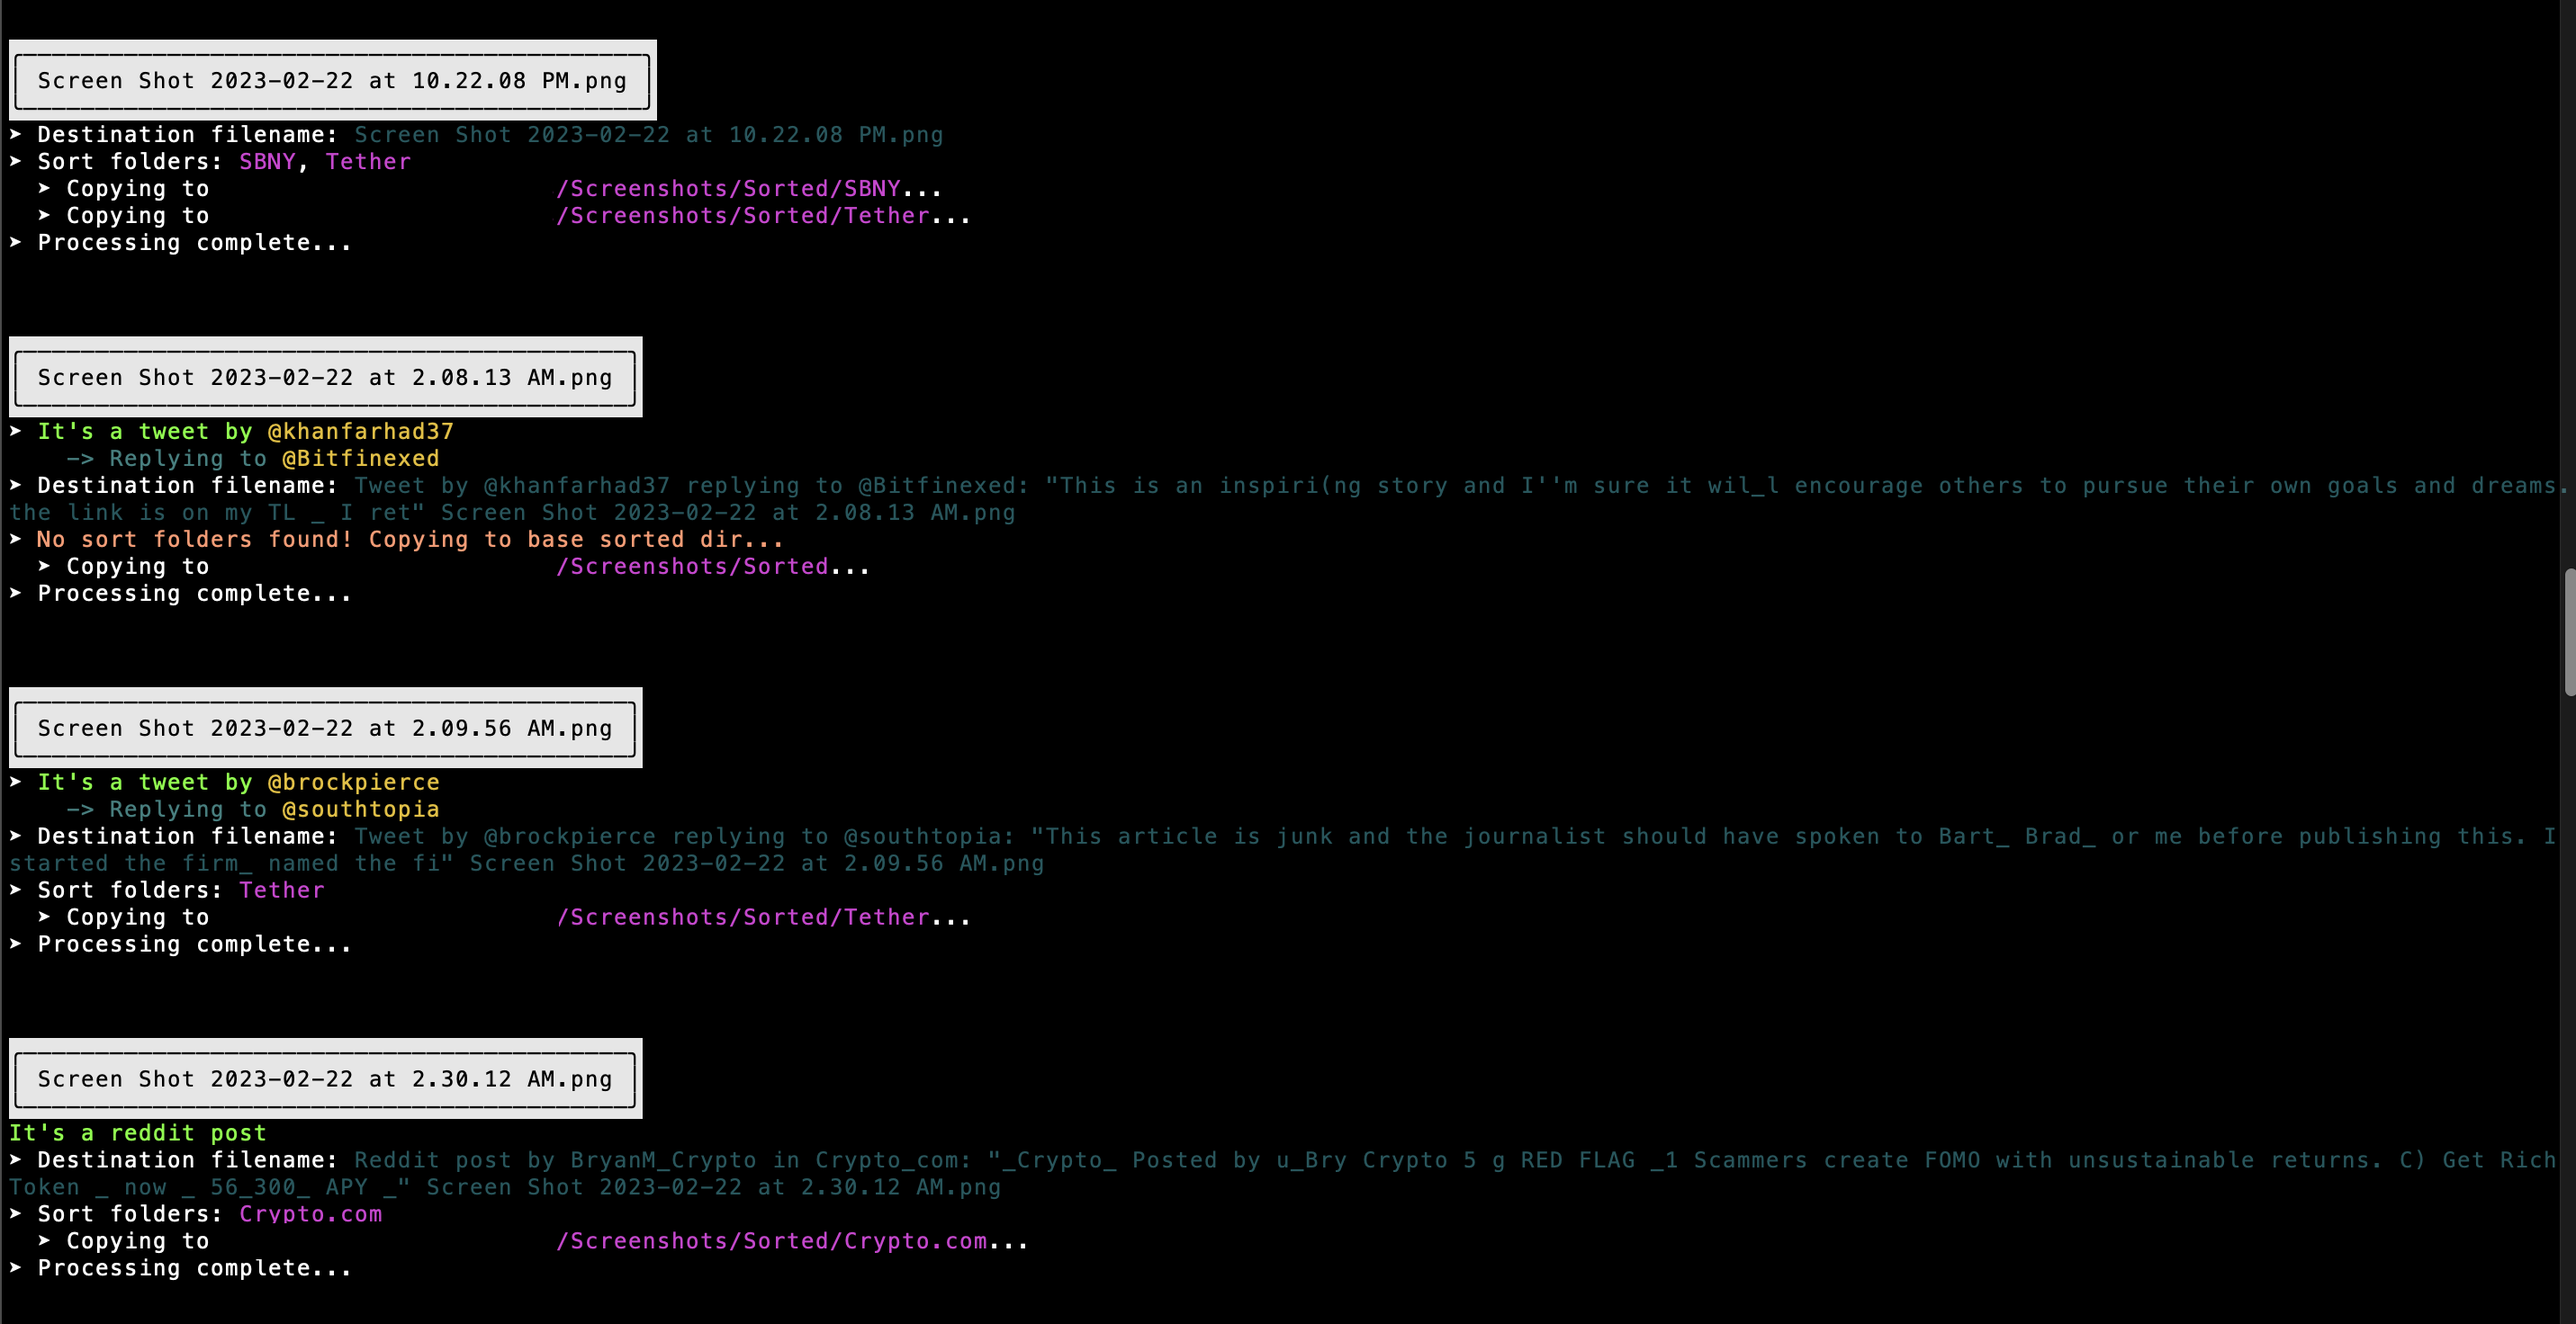
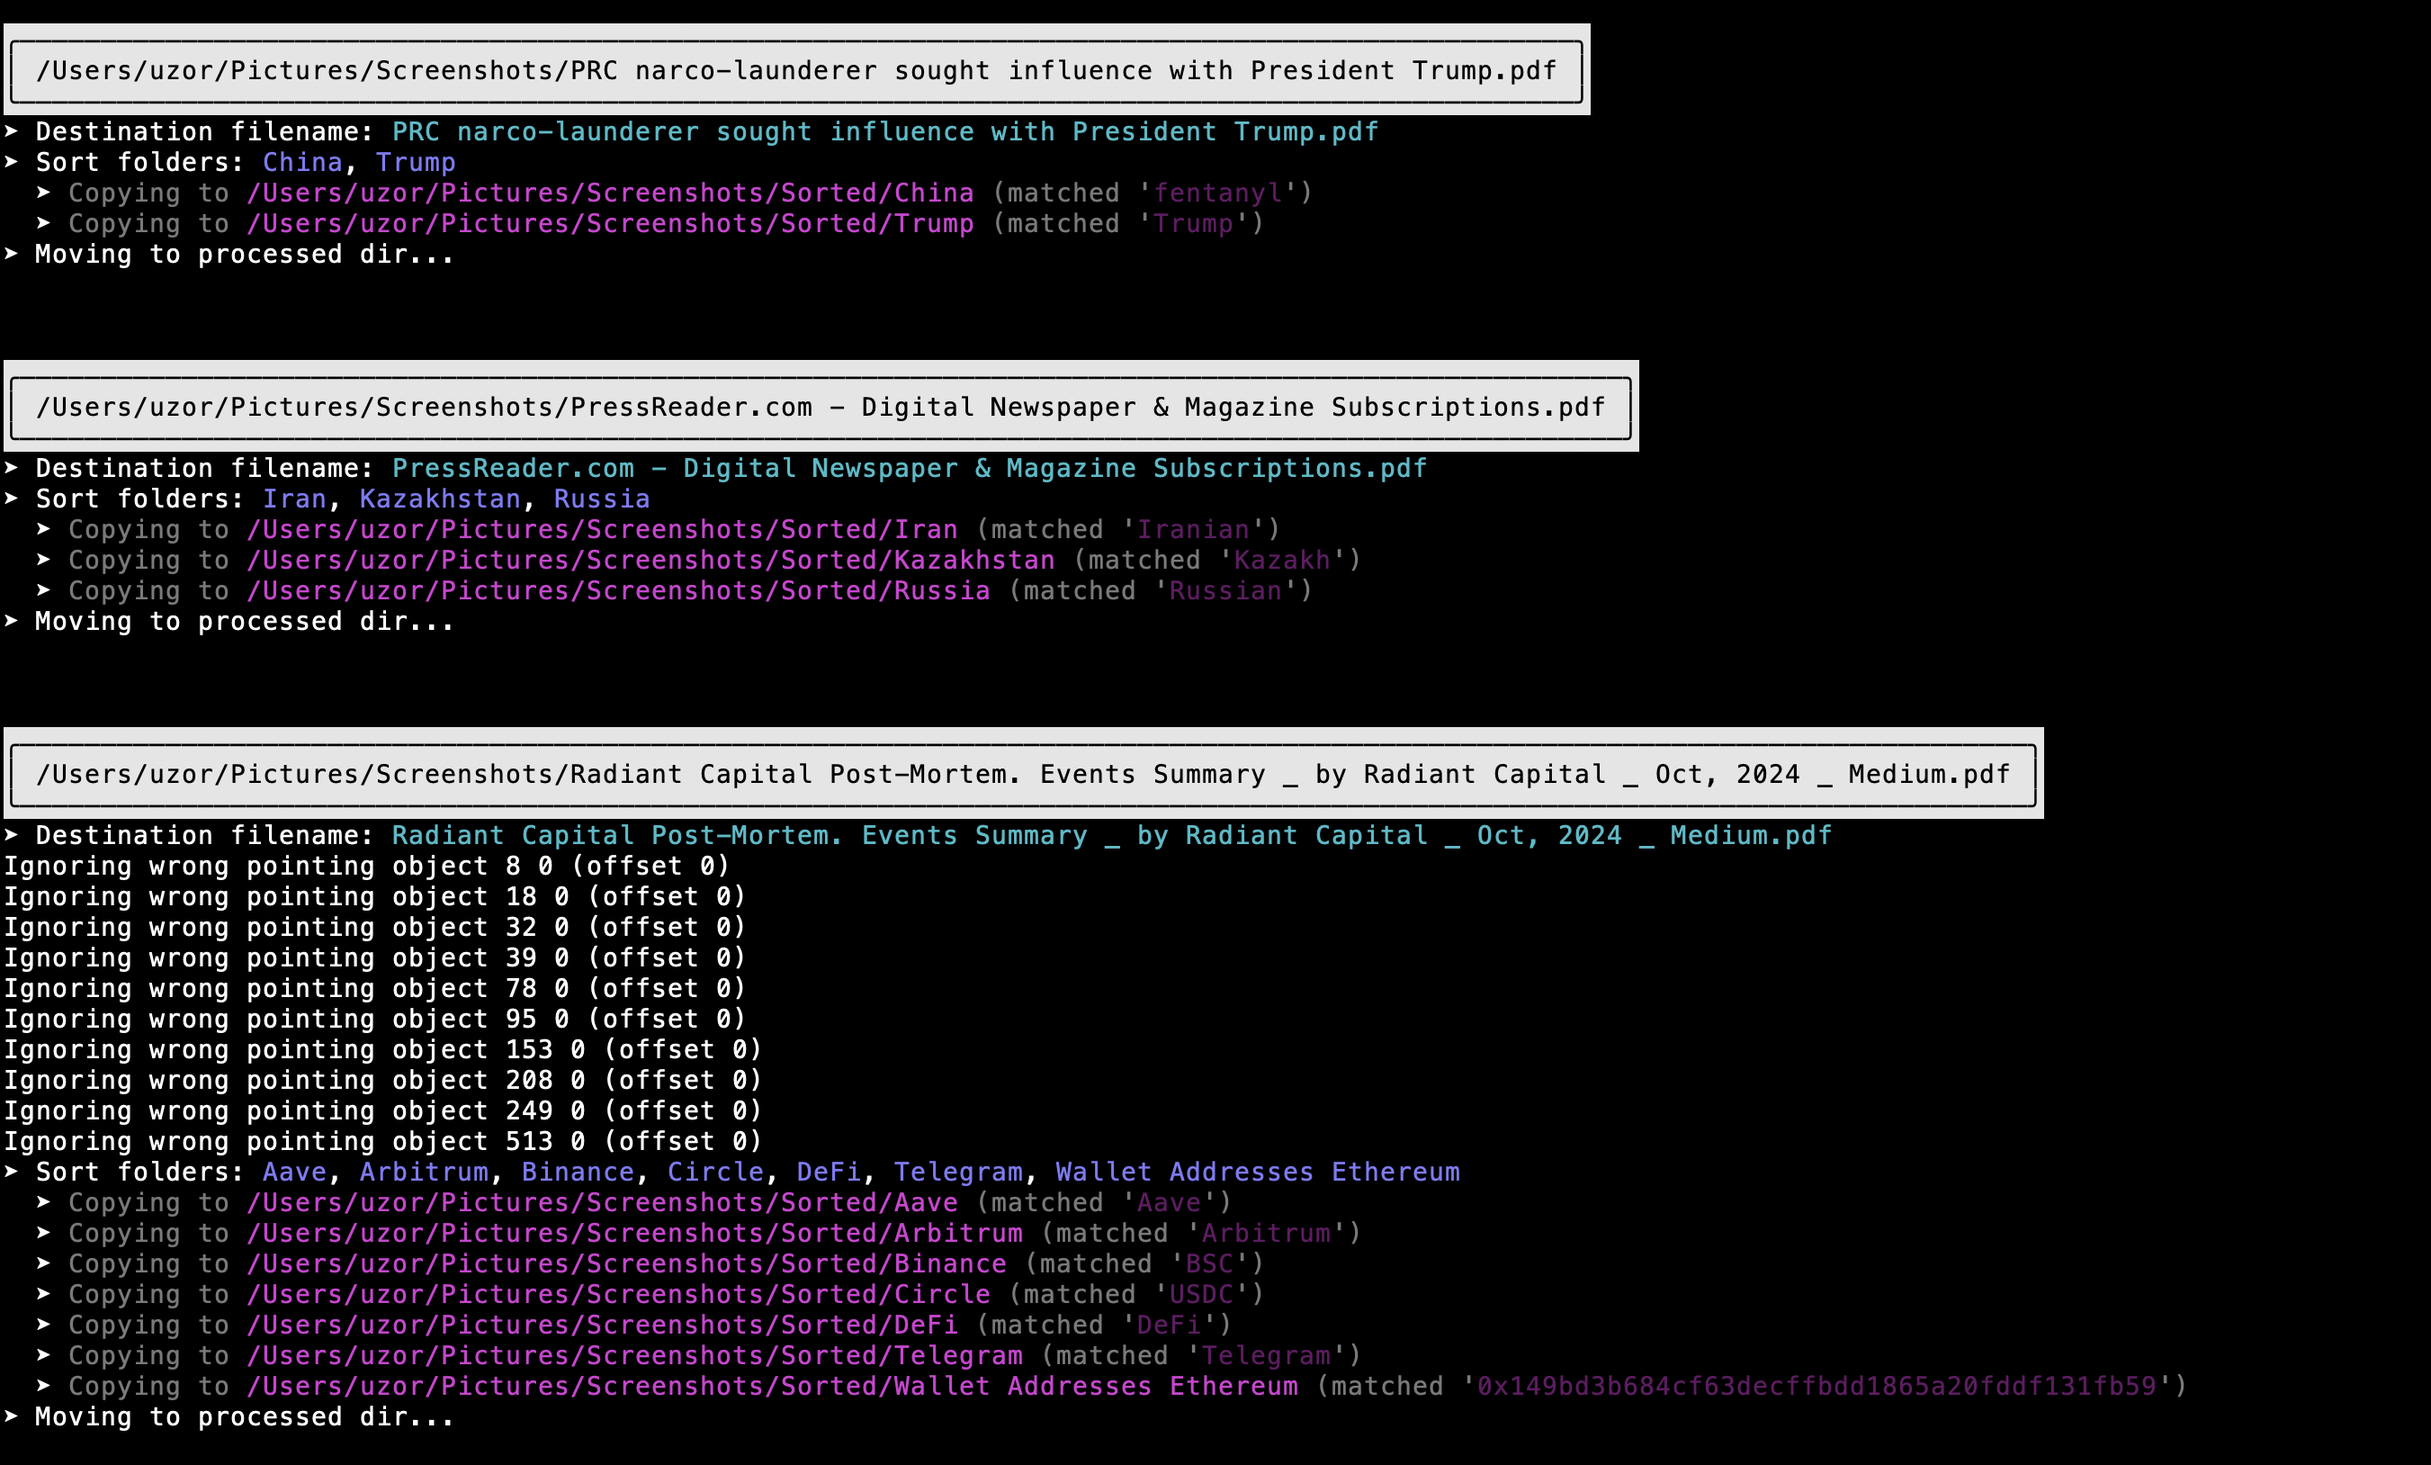
Options to hide directories or anonymize the username in output logs (#7)
* --hide-dirs option

* --anonymize-user-dir option

* Update usage image in README

* update help screenshot

diff --git a/clown_sort/files/sortable_file.py b/clown_sort/files/sortable_file.py
@@ -20,10 +20,11 @@ from clown_sort.config import Config
 from clown_sort.filename_extractor import FilenameExtractor
 from clown_sort.lib.rule_match import RuleMatch
 from clown_sort.sort_selector import process_file_with_popup
-from clown_sort.util.filesystem_helper import copy_file_creation_time
+from clown_sort.util.filesystem_helper import copy_file_creation_time, loggable_filename
 from clown_sort.util.logging import log
-from clown_sort.util.rich_helper import (bullet_text, comma_join, console, copying_file_log_message,
-     indented_bullet, mild_warning, moving_file_log_message, print_dim_bullet, print_headline, stderr_console)
+from clown_sort.util.rich_helper import (bullet_text, comma_join, console,
+     copying_file_log_message, indented_bullet, mild_warning, moving_file_log_message,
+     print_dim_bullet, stderr_console)
 
 MAX_EXTRACTION_LENGTH = 4096
 NOT_MOVING_FILE = "Not moving file to processed dir because it's"
@@ -197,7 +198,9 @@ class SortableFile:
         return Panel(self._extracted_str(MAX_EXTRACTION_LENGTH), expand=True, style='dim')
 
     def _filename_panel(self) -> Panel:
-        return Panel(str(self.file_path), expand=False, style='bright_white reverse')
+        """Panelized version of the filename for display."""
+        filename = loggable_filename(self.file_path, Config)
+        return Panel(filename, expand=False, style='bright_white reverse')
 
     def _log_copy_file(self, destination_path: Path, match: Optional[re.Match] = None) -> None:
         """Log info about a file copy."""
@@ -209,15 +212,17 @@ class SortableFile:
 
         if destination_path.parent == Config.destination_dir:
             console.print(indented_bullet(log_msg.append('root sorted dir...')))
-        else:
-            log_msg.append(str(destination_path.parent), style='sort_destination')
+            return
 
-            if match is not None:
-                log_msg.append(f" (matched '", style='dim')
-                log_msg.append(match.group(0).strip(), style='magenta dim')
-                log_msg.append("')", style='dim')
+        dirname = loggable_filename(destination_path.parent, Config)
+        log_msg.append(str(dirname), style='sort_destination')
 
-            console.print(indented_bullet(log_msg))
+        if match is not None:
+            log_msg.append(f" (matched '", style='dim')
+            log_msg.append(match.group(0).strip(), style='magenta dim')
+            log_msg.append("')", style='dim')
+
+        console.print(indented_bullet(log_msg))
 
     def _move_to_processed_dir(self) -> None:
         """Relocate the original file to the [SCREENSHOTS_DIR]/Processed/ folder."""

diff --git a/clown_sort/util/filesystem_helper.py b/clown_sort/util/filesystem_helper.py
@@ -7,6 +7,7 @@ import re
 import stat
 import time
 from datetime import datetime
+from getpass import getuser
 from os import path
 from pathlib import Path
 from typing import List, Optional, Union
@@ -25,6 +26,9 @@ MOVIE_FILE_EXTENSIONS = ['.mov', '.flv', '.avi']
 IMAGE_FILE_EXTENSIONS = [f".{ext}" for ext in 'tiff jpg jpeg png heic'.split()]
 SORTABLE_FILE_EXTENSIONS = IMAGE_FILE_EXTENSIONS + [PDF_EXTENSION, '.mov']
 MAC_SCREENSHOT_TIMESTAMP_FORMAT = '%Y-%m-%d at %I.%M.%S %p'
+
+ANONYMIZED_USERNAME = 'uzor'
+CURRENT_USERNAME = getuser()
 
 
 def files_in_dir(dir: Union[os.PathLike, str], with_extname: Optional[str] = None) -> List[str]:
@@ -125,6 +129,21 @@ def extract_timestamp_from_filename(filename: str) -> datetime:
         raise ValueError(f"'{filename}' is not a timestamped screenshot file")
 
     return datetime.strptime(match.group(1), MAC_SCREENSHOT_TIMESTAMP_FORMAT)
+
+
+def loggable_filename(file_path: Path, config: 'Config') -> str:
+    """Return a loggable version of the filename."""
+    if config.hide_dirs:
+        return Path(file_path).name
+
+    filename = str(file_path)
+
+    if config.anonymize_user_dir:
+        username_str = f"{path.sep}{CURRENT_USERNAME}{path.sep}"
+        anonuser_str = f"{path.sep}{ANONYMIZED_USERNAME}{path.sep}"
+        return filename.replace(username_str, anonuser_str)
+    else:
+        return filename
 
 
 def _non_hidden_files_in_dir(dir: Union[os.PathLike, str]) -> List[str]:

diff --git a/clown_sort/config.py b/clown_sort/config.py
@@ -31,6 +31,7 @@ class Config:
     leave_in_place: bool = False
     screenshots_only: bool = True
     delete_originals: bool = False
+    hide_dirs: bool = False
     rescan_sorted: bool = False
     yes_overwrite: bool = False
     print_as_parsed: bool = False
@@ -50,9 +51,11 @@ class Config:
             cls.enable_debug_mode()
 
         Config.filename_regex = re.compile(args.filename_regex)
+        Config.anonymize_user_dir = True if args.anonymize_user_dir else False
+        Config.hide_dirs = True if args.hide_dirs else False
+        Config.delete_originals = True if args.delete_originals else False
         Config.leave_in_place = True if args.leave_in_place else False
         Config.only_if_match = True if args.only_if_match else False
-        Config.delete_originals = True if args.delete_originals else False
         Config.rescan_sorted = True if args.rescan_sorted else False
         Config.yes_overwrite = True if args.yes_overwrite else False
 

diff --git a/clown_sort/util/argument_parser.py b/clown_sort/util/argument_parser.py
@@ -67,6 +67,12 @@ parser.add_argument('-mf', '--manual-fallback', action='store_true',
 parser.add_argument('-y', '--yes-overwrite', action='store_true',
                     help='skip confirmation prompt and always overwrite if a file with the same name already exists')
 
+parser.add_argument('--hide-dirs', action='store_true',
+                    help='hide directories in log output (only show basenames)')
+
+parser.add_argument('--anonymize-user-dir', action='store_true',
+                    help='anonymize the user directory in log output')
+
 parser.add_argument('--rescan-sorted', action='store_true',
                     help="rescan already sorted files (useful if you updated your sorting rules)")
 

diff --git a/CHANGELOG.md b/CHANGELOG.md
@@ -1,4 +1,6 @@
 # NEXT RELEASE
+* New `--hide-dirs` option
+* New `--anonymize-user-dir` option
 * Bump `PyPDF` to `5.0.1`
 * More default sorting rules
 
